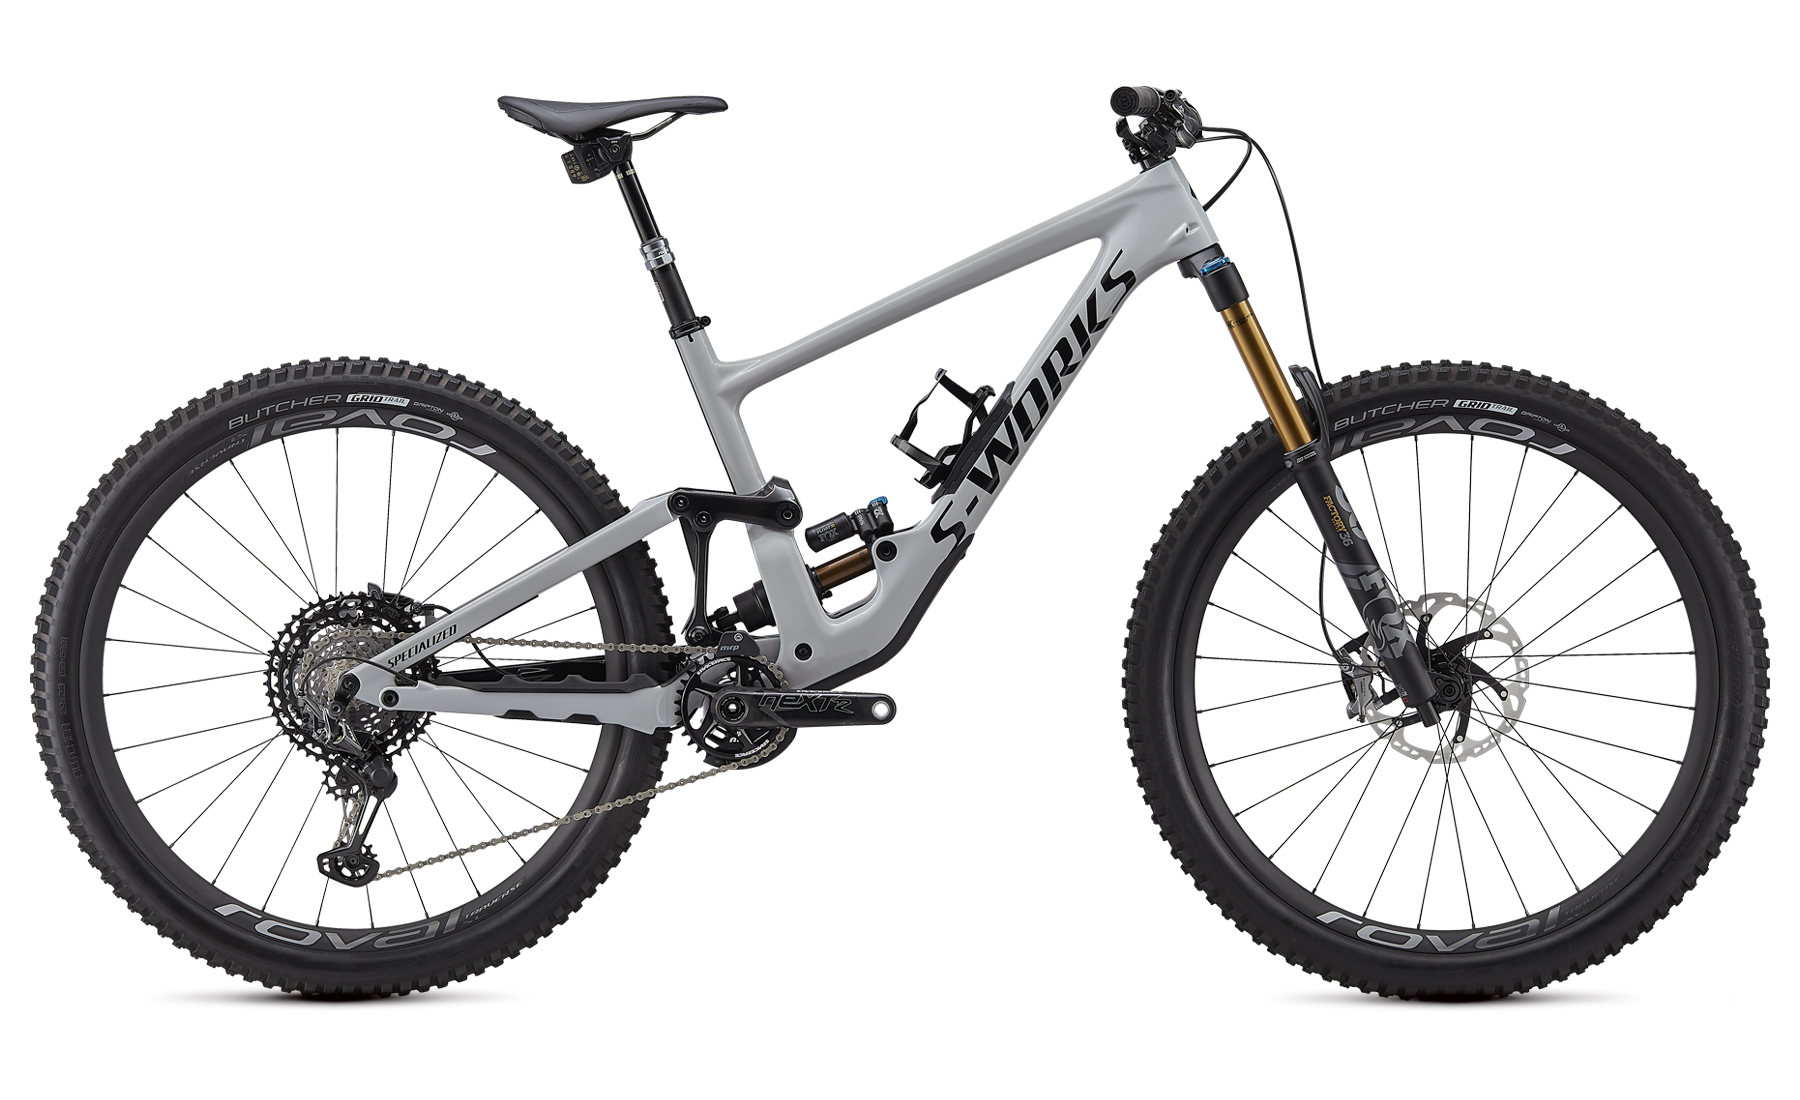
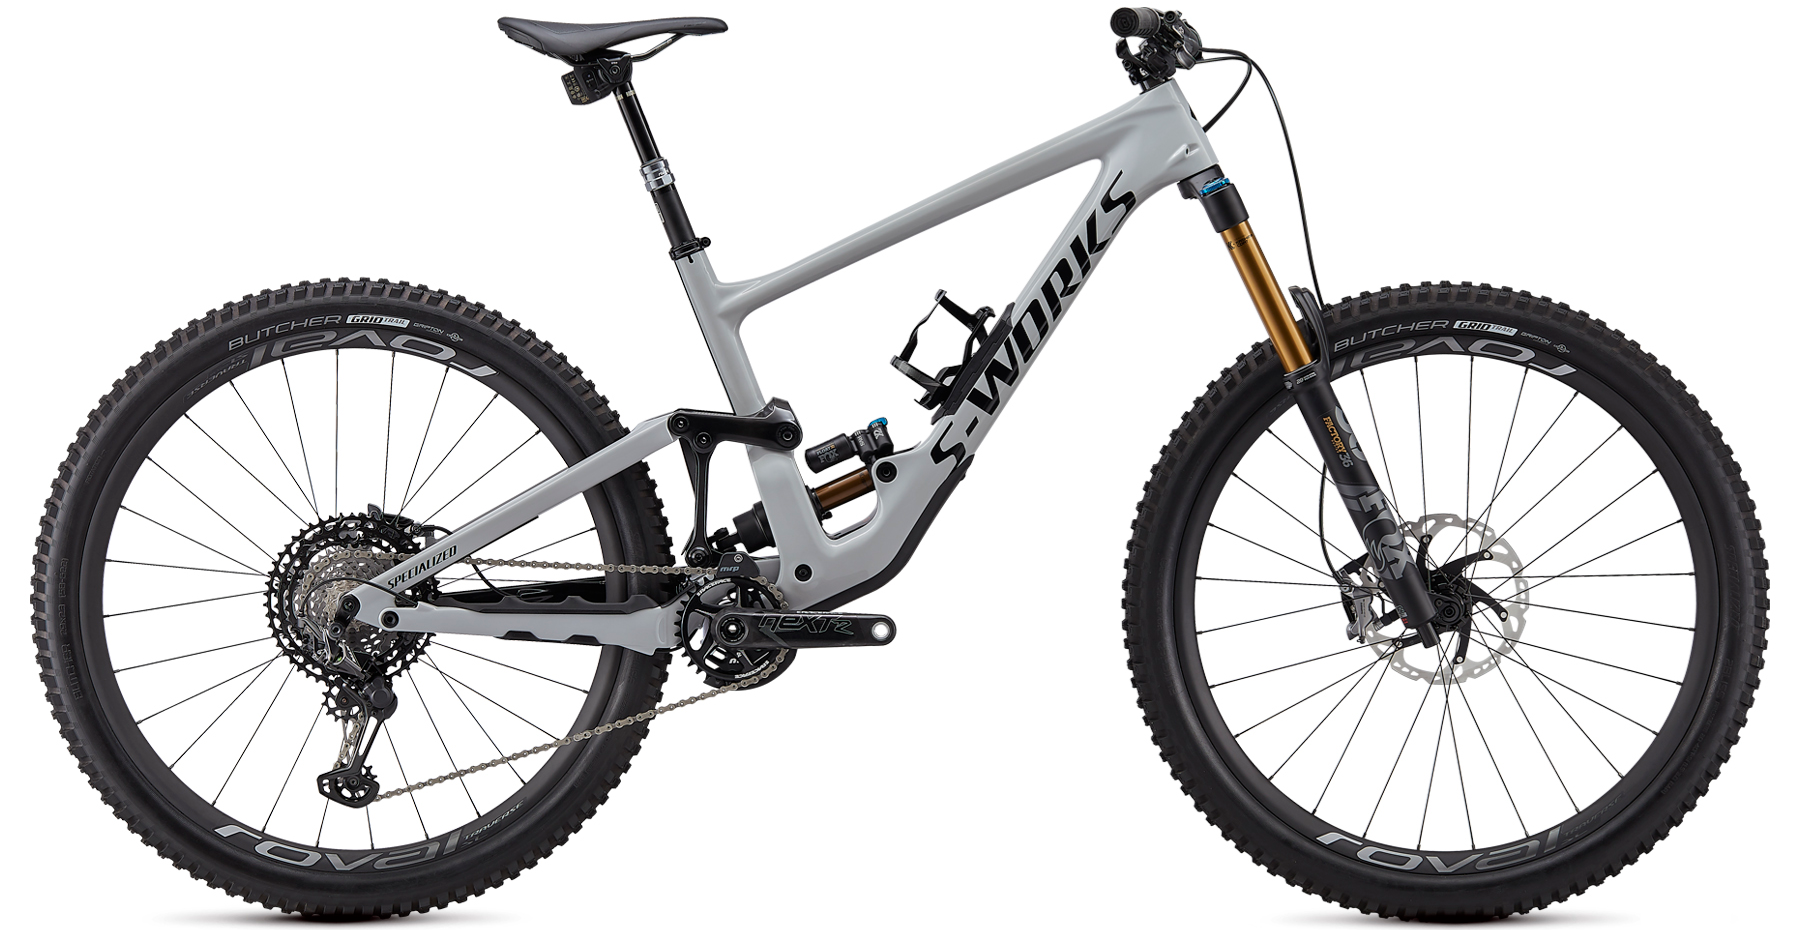
Ajustar medidas para carousel

Changed region(s): [[0.0, 0.0, 0.9956, 1.0]]

diff --git a/index.html b/index.html
@@ -34,25 +34,26 @@
     </header>
     <main>
       <h1 class="our_bikes">OUR BIKES</h1>
-      <section>
-        <div class="img-bici_container">
-          <a href="http://google.com">
-            <img class="img-bici1" src="assets/img/bici1.jpg" alt="Foto de bici de montaña" />
-          </a>
+      <section class="flex-carousel">
+        <section>
+          <div class="img-bici_container">
+            <a href="http://google.com">
+              <img class="img-bici1" src="assets/img/bici1.jpg" alt="Foto de bici de montaña" />
+            </a>
+          </div>
+        </section>
+        <h1 class="enduro">Enduro</h1>
+        <section>
+          <p class="enduro-text">
+            Efficient pedalling and fast technical descents. Enduro mountain bikes give you the best
+            of bothg worlds.
+          </p>
+        </section>
+        <h1 class="rent"> From: €30/day </h1>
+        <div class="rent_button-container">
+          <button class="rent_button"> RENT NOW</button>
         </div>
       </section>
-      <h1 class="enduro">Enduro</h1>
-      <section>
-        <p class="enduro-text">
-          Lorem ipsum dolor sit amet. Non eligendi incidunt id blanditiis totam quas provident
-          qui voluptas libero sit fugit architecto qui quia distinctio. Sit internos natus aut adipisci
-          iste est beatae iure sit labore voluptatem est ullam earum.
-        </p>
-      </section>
-      <h1 class="rent"> From: €30/day </h1>
-      <div class="rent_button-container">
-        <button class="rent_button"> RENT NOW</button>
-      </div>
       <!-- <div id="carouselExampleDark" class="carousel carousel-dark slide" data-bs-ride="carousel">
         <div class="carousel-indicators">
           <button type="button" data-bs-target="#carouselExampleDark" data-bs-slide-to="0" class="active" aria-current="true" aria-label="Slide 1"></button>

diff --git a/assets/css/style.css b/assets/css/style.css
@@ -96,7 +96,14 @@ header nav {
   font-family: "Quicksand";
   font-weight: 200;
   font-size: 30px;
-  margin-top: 40px;
+  margin-top: 20px;
+  margin-bottom: 30px;
+}
+
+.flex-carousel {
+  display: flex;
+  flex-direction: column;
+  margin: 20px 20px;
 }
 
 .img-bici_container {
@@ -104,7 +111,7 @@ header nav {
 }
 
 .img-bici1 {
-  min-width: 720px;
+  min-width: 420px;
   max-width: 60%;
 }
 
@@ -112,15 +119,15 @@ header nav {
   text-align: center;
   font-family: "Quicksand";
   font-weight: 200;
-  font-size: 25px;
+  font-size: 20px;
 }
 
 .enduro-text {
   font-family: Helvetica, sans-serif;
   text-align: center;
   display: block;
-  font-size: 20px;
-  padding: 20px;
+  font-size: 15px;
+  padding: 10px;
   padding-left: 160px;
   padding-right: 160px;
 }
@@ -129,14 +136,14 @@ header nav {
   text-align: center;
   font-family: "Quicksand";
   font-weight: 200;
-  font-size: 25px;
+  font-size: 20px;
 }
 
 .rent_button {
   color: rgb(0, 0, 0);
-  font-size: 15px;
+  font-size: 10px;
   line-height: 15px;
-  padding: 10px;
+  padding: 5px;
   font-family: Helvetica, sans-serif;
   font-weight: 700;
 }
